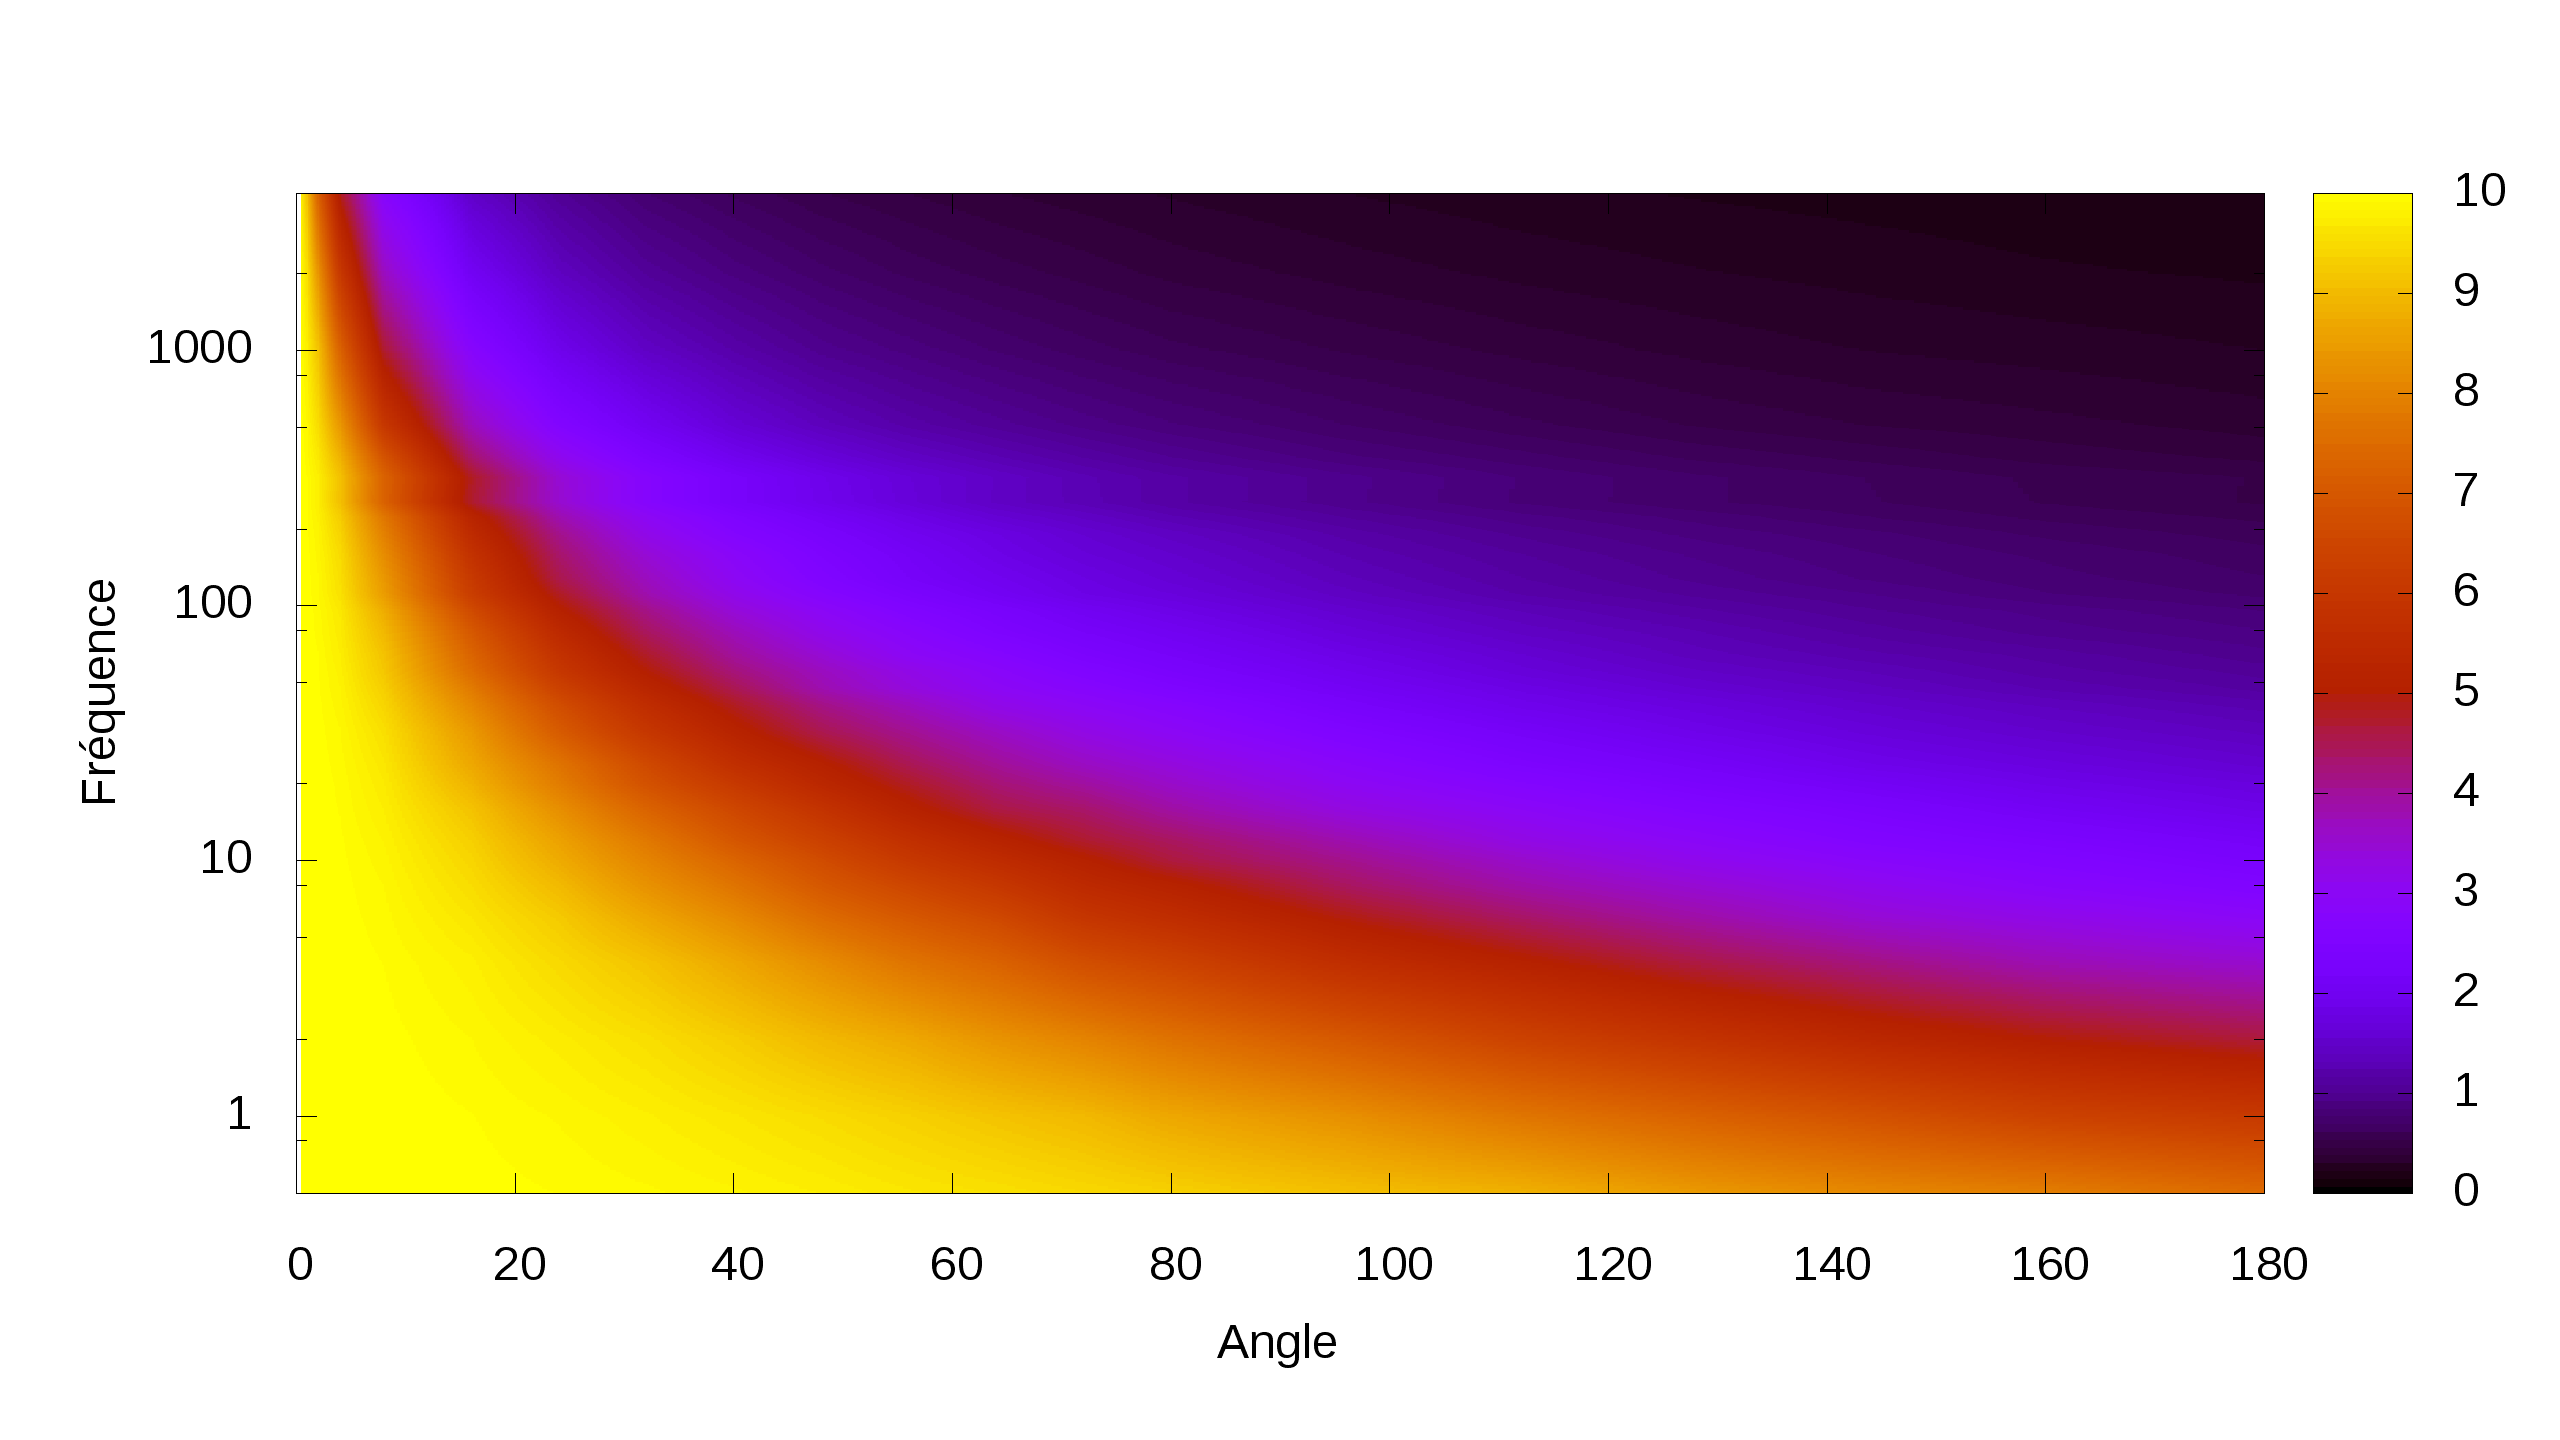
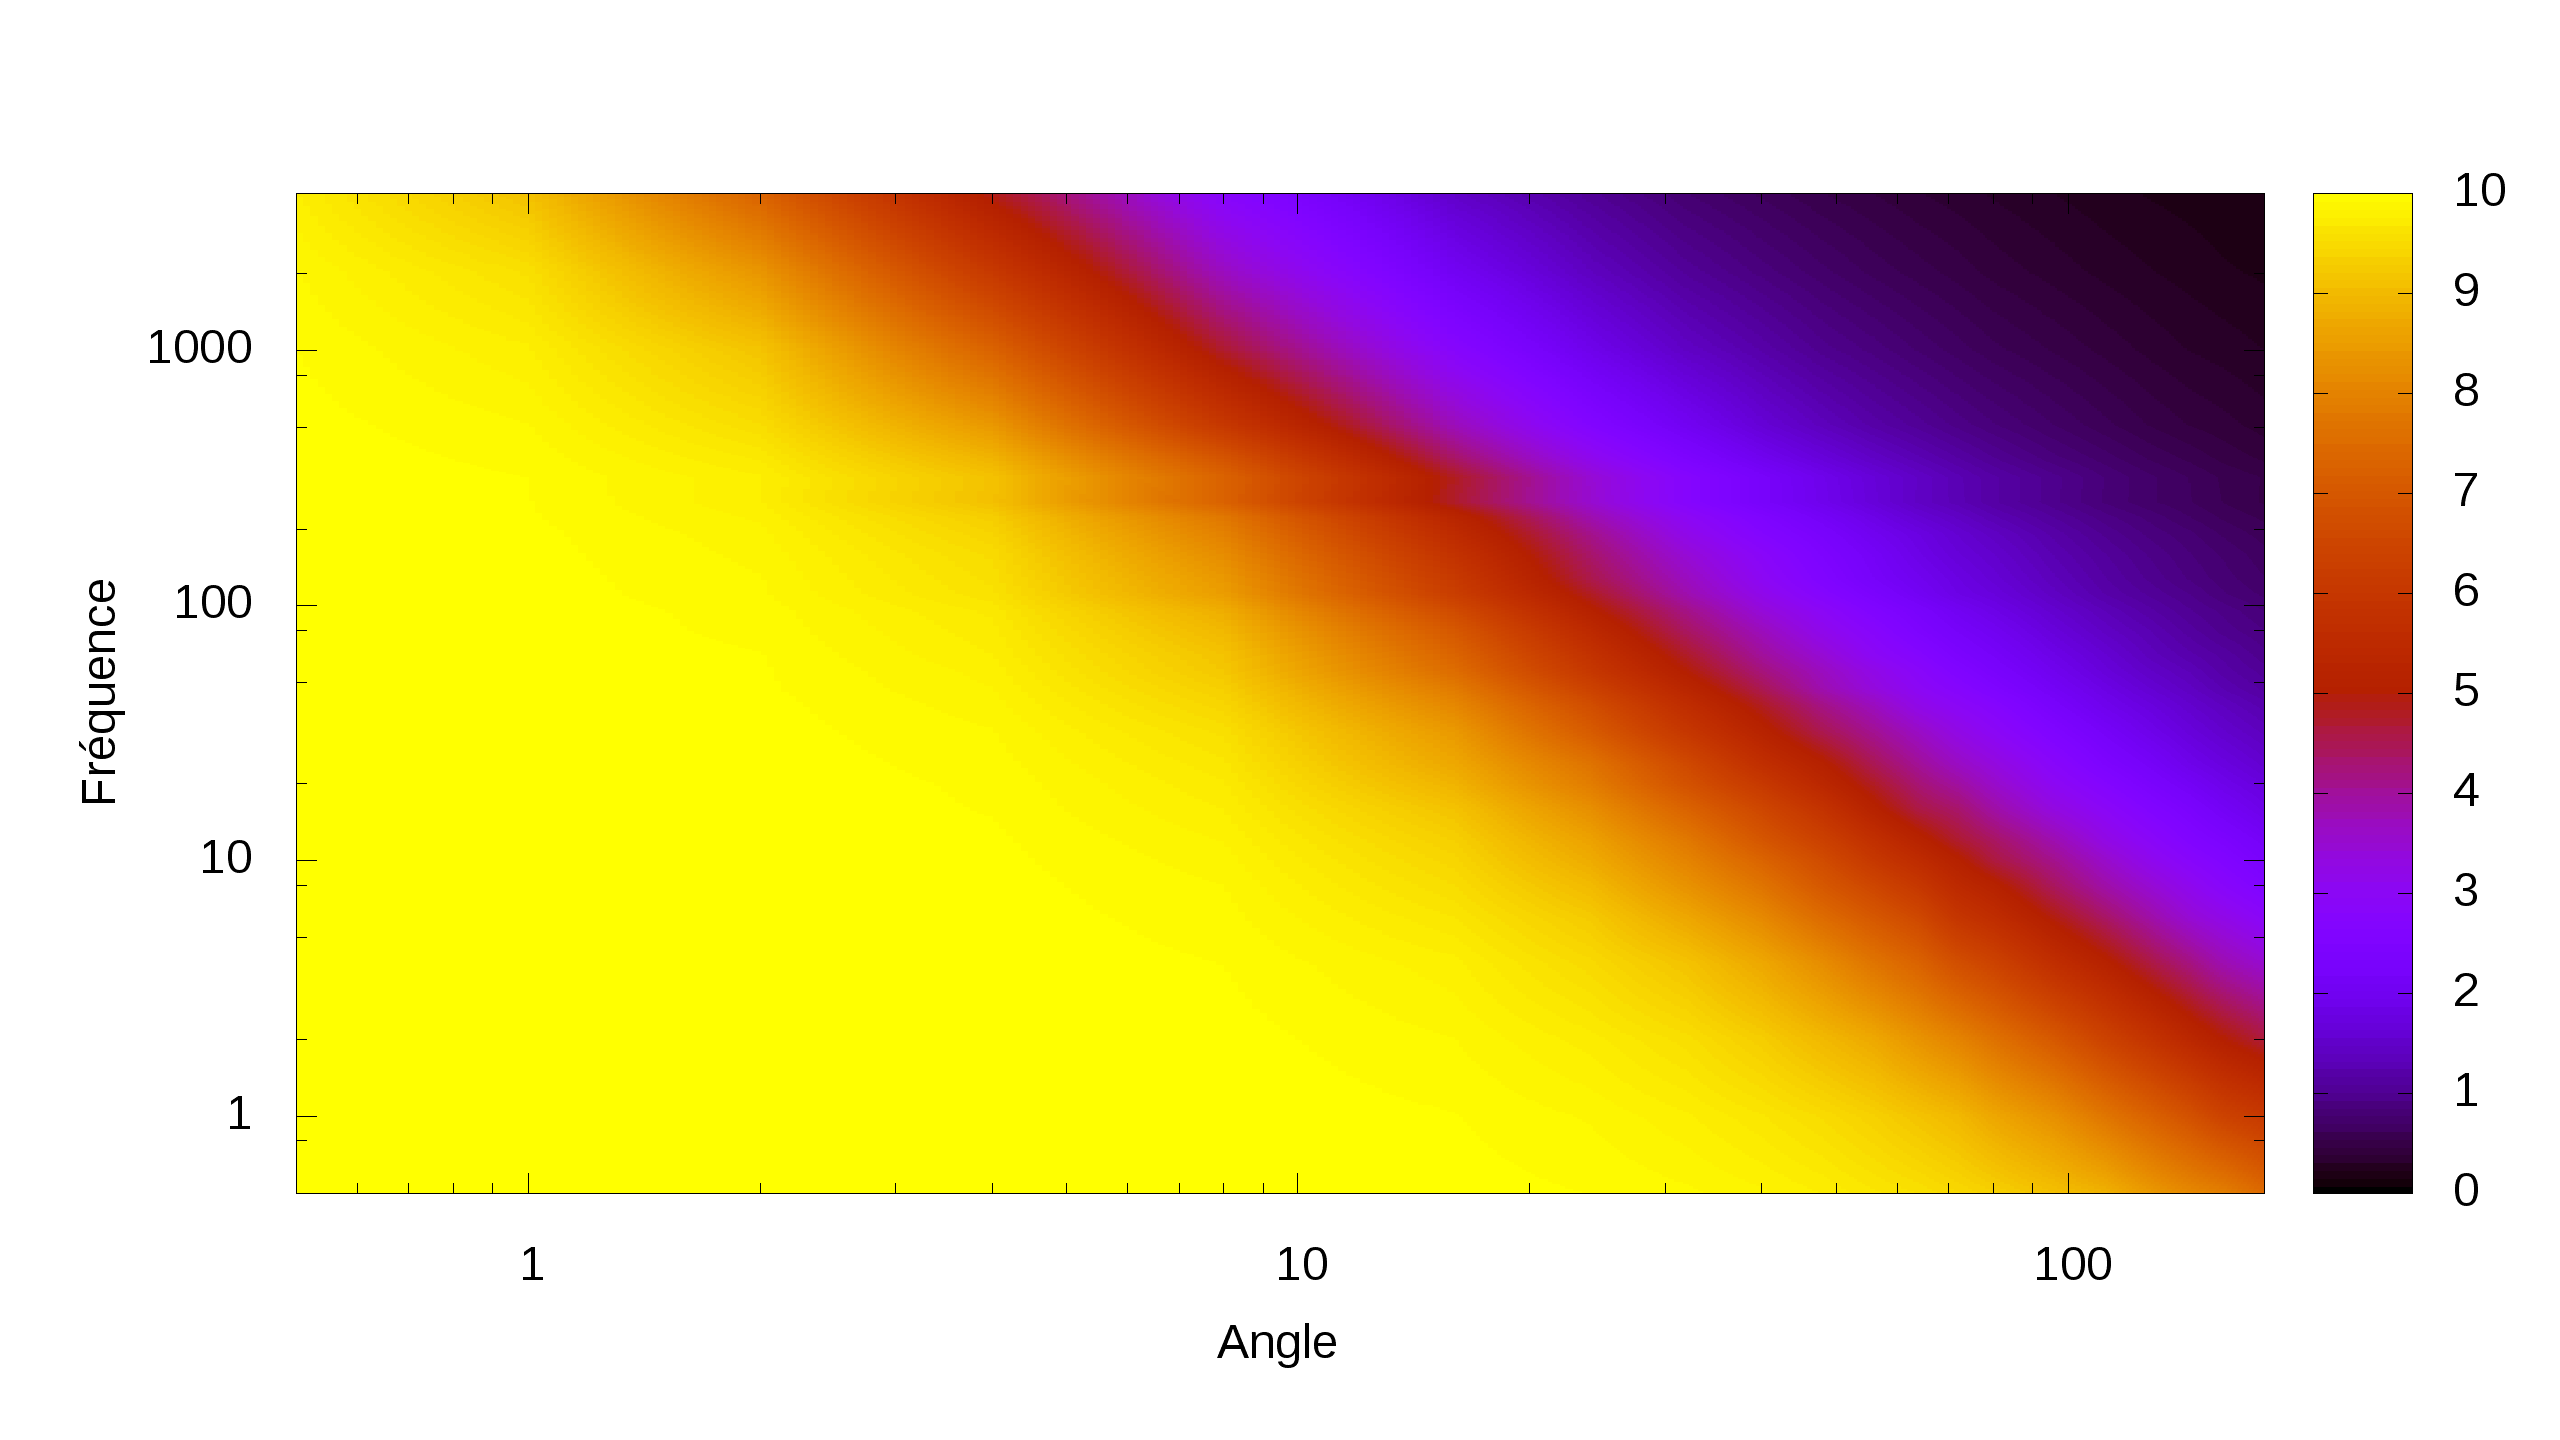
ch3 trajs 6

diff --git a/chapitre4.tex b/chapitre4.tex
@@ -739,7 +739,7 @@
 	\subsection{Détermination des coefficients}
 	Cependant, si l'on a bien $\mathcal{A}(ec) = \gamma{}V$, $\forall A$ et $\forall F$, la valeur de $\gamma$ n'est pas la même pour toutes les combinaisons de A et F. De fait, la vitesse ne peut être tenue pour totalement indépendante des autres paramètres. Nous avons donc cherché à déterminer la valeur de $\gamma$ en fonction de F et A, de manière à pouvoir étudier $\mathcal{A}(ec)$ en fonction de F et A.
 	
-	Pour ce faire, nous avons généré des trajectoires pour diverses combinaisons de F et A à de nombreuses valeurs de V, afin de déterminer la valeur de $\gamma$ correspondant à chaque couple (F,A). Encore une fois, pour chaque condition (V,F,A) nous avons généré de multiples trajectoires (200), afin d'obtenir des valeurs moyennes fiables. Les résultats sont présentés sous forme de cartes thermiques sur la figure~\ref{fig:gammaVfa}. La figure~\ref{fig:gammaVfaLin} les représente avec F sur une échelle linéaire, et la figure~\ref{fig:gammaVfaLog} avec F sur une échelle logarithmique, pour plus de lisibilité.	
+	Pour ce faire, nous avons généré des trajectoires pour diverses combinaisons de F et A à de nombreuses valeurs de V, afin de déterminer la valeur de $\gamma$ correspondant à chaque couple (F,A). Encore une fois, pour chaque condition (V,F,A) nous avons généré de multiples trajectoires (200), afin d'obtenir des valeurs moyennes fiables. Les résultats sont présentés sous forme de cartes thermiques sur la figure~\ref{fig:gammaVfa}. La figure~\ref{fig:gammaVfaLin} les représente sur une échelle linéaire, et la figure~\ref{fig:gammaVfaLog} sur une échelle logarithmique. Cette dernière figure, par ses lignes droites, suggère qu'une loi de puissance régit nos données, comme nous allons le voir plus loin.
 	
 	\begin{figure}[!htb]
 		\centering
@@ -760,7 +760,7 @@
 		\label{fig:gammaVfa}
 	\end{figure}
 	
-	Ces données nous fournissent un moyen d'obtenir, à partir d'une aire de référence pour un couple (F,A), l'aire réelle en fonction de V, simplement en multipliant l'aire de référence par $\gamma{}V$. Si le couple (F,A) en question n'est pas présent dans les données brutes ayant permis de générer la figure~\ref{fig:gammaVfa}, la continuité de la fonction qui à un couple (F,A) associe une valeur de $\gamma$ nous autorise à approximer la valeur recherchée à l'aide d'une simple interpolation bilinéaire. Il serait bien entendu possible de calculer une grille de référence plus fine et plus précise.
+	Ces données nous fournissent un moyen d'obtenir, à partir d'une aire de référence pour un couple (F,A), l'aire réelle en fonction de V, simplement en multipliant l'aire de référence par $\gamma{}V$. Si le couple (F,A) en question n'est pas présent dans les données brutes ayant permis de générer la figure~\ref{fig:gammaVfa}, la continuité de la fonction qui à un couple (F,A) associe une valeur de $\gamma$ nous autorise à approximer la valeur recherchée à l'aide d'une simple interpolation bilinéaire (et il serait bien entendu possible de calculer une grille de référence plus fine et plus précise) ou d'un modèle analytique.
 	
 	\subsection{Pseudo-entropie et valeur de $\gamma$}
 	Si la figure~\ref{fig:gammaVfaLin} suggère que l'augmentation de A et de F ont le même effet sur $\gamma$, à savoir en diminuer la valeur, la figure~\ref{fig:gammaVfaLog} montre que, dès lors que A atteint une valeur relativement élevée (autour de 50) la fréquence a un impact très important sur la valeur de $\gamma$. Inversement, lorsque A est en dessous de ce seuil, l'impact de F sur $\gamma$ est assez faible, voire presque nul pour de petites valeurs de A.
@@ -835,7 +835,7 @@
 		\mathcal{A}(ec) &= \mathcal{A}_{base}(ec) \times f\left(A\sqrt{F}\right)
 	\end{align}
 	
-	Naturellement, pour pouvoir estimer l'aire de l'enveloppe convexe à partir de nos paramètres, il faut pouvoir calculer $\mathcal{A}_{base}(ec)$. Nous avons donc calculé l'aire moyenne des enveloppes convexes de trajectoires générées à partir de multiples couples (F,A) avec $V = 1$~cm/s, en générant de nombreuses trajectoires par condition (100) afin d'avoir des valeurs de référence fiables. Dans un premier temps, nous avons calculé les aires des enveloppes convexes pour $V = 1$~cm/s, pour de nombreux couples (F,A). La figure~\ref{fig:afAreaLin} représente ces données sous forme de carte thermique, et la figure~\ref{fig:afAreaLog} les représente de la même façon, mais avec la fréquence sur une échelle logarithmique, pour plus de lisibilité.
+	Naturellement, pour pouvoir estimer l'aire de l'enveloppe convexe à partir de nos paramètres, il faut pouvoir calculer $\mathcal{A}_{base}(ec)$. Nous avons donc calculé l'aire moyenne des enveloppes convexes de trajectoires générées à partir de multiples couples (F,A) avec $V = 1$~cm/s, en générant de nombreuses trajectoires par condition (100) afin d'avoir des valeurs de référence fiables. Dans un premier temps, nous avons calculé les aires des enveloppes convexes pour $V = 1$~cm/s, pour de nombreux couples (F,A). La figure~\ref{fig:afAreaLin} représente ces données sous forme de carte thermique, et la figure~\ref{fig:afAreaLog} les représente de la même façon, mais sur une échelle logarithmique, pour plus de lisibilité.
 	
 	\begin{figure}[!htb]
 		\centering
